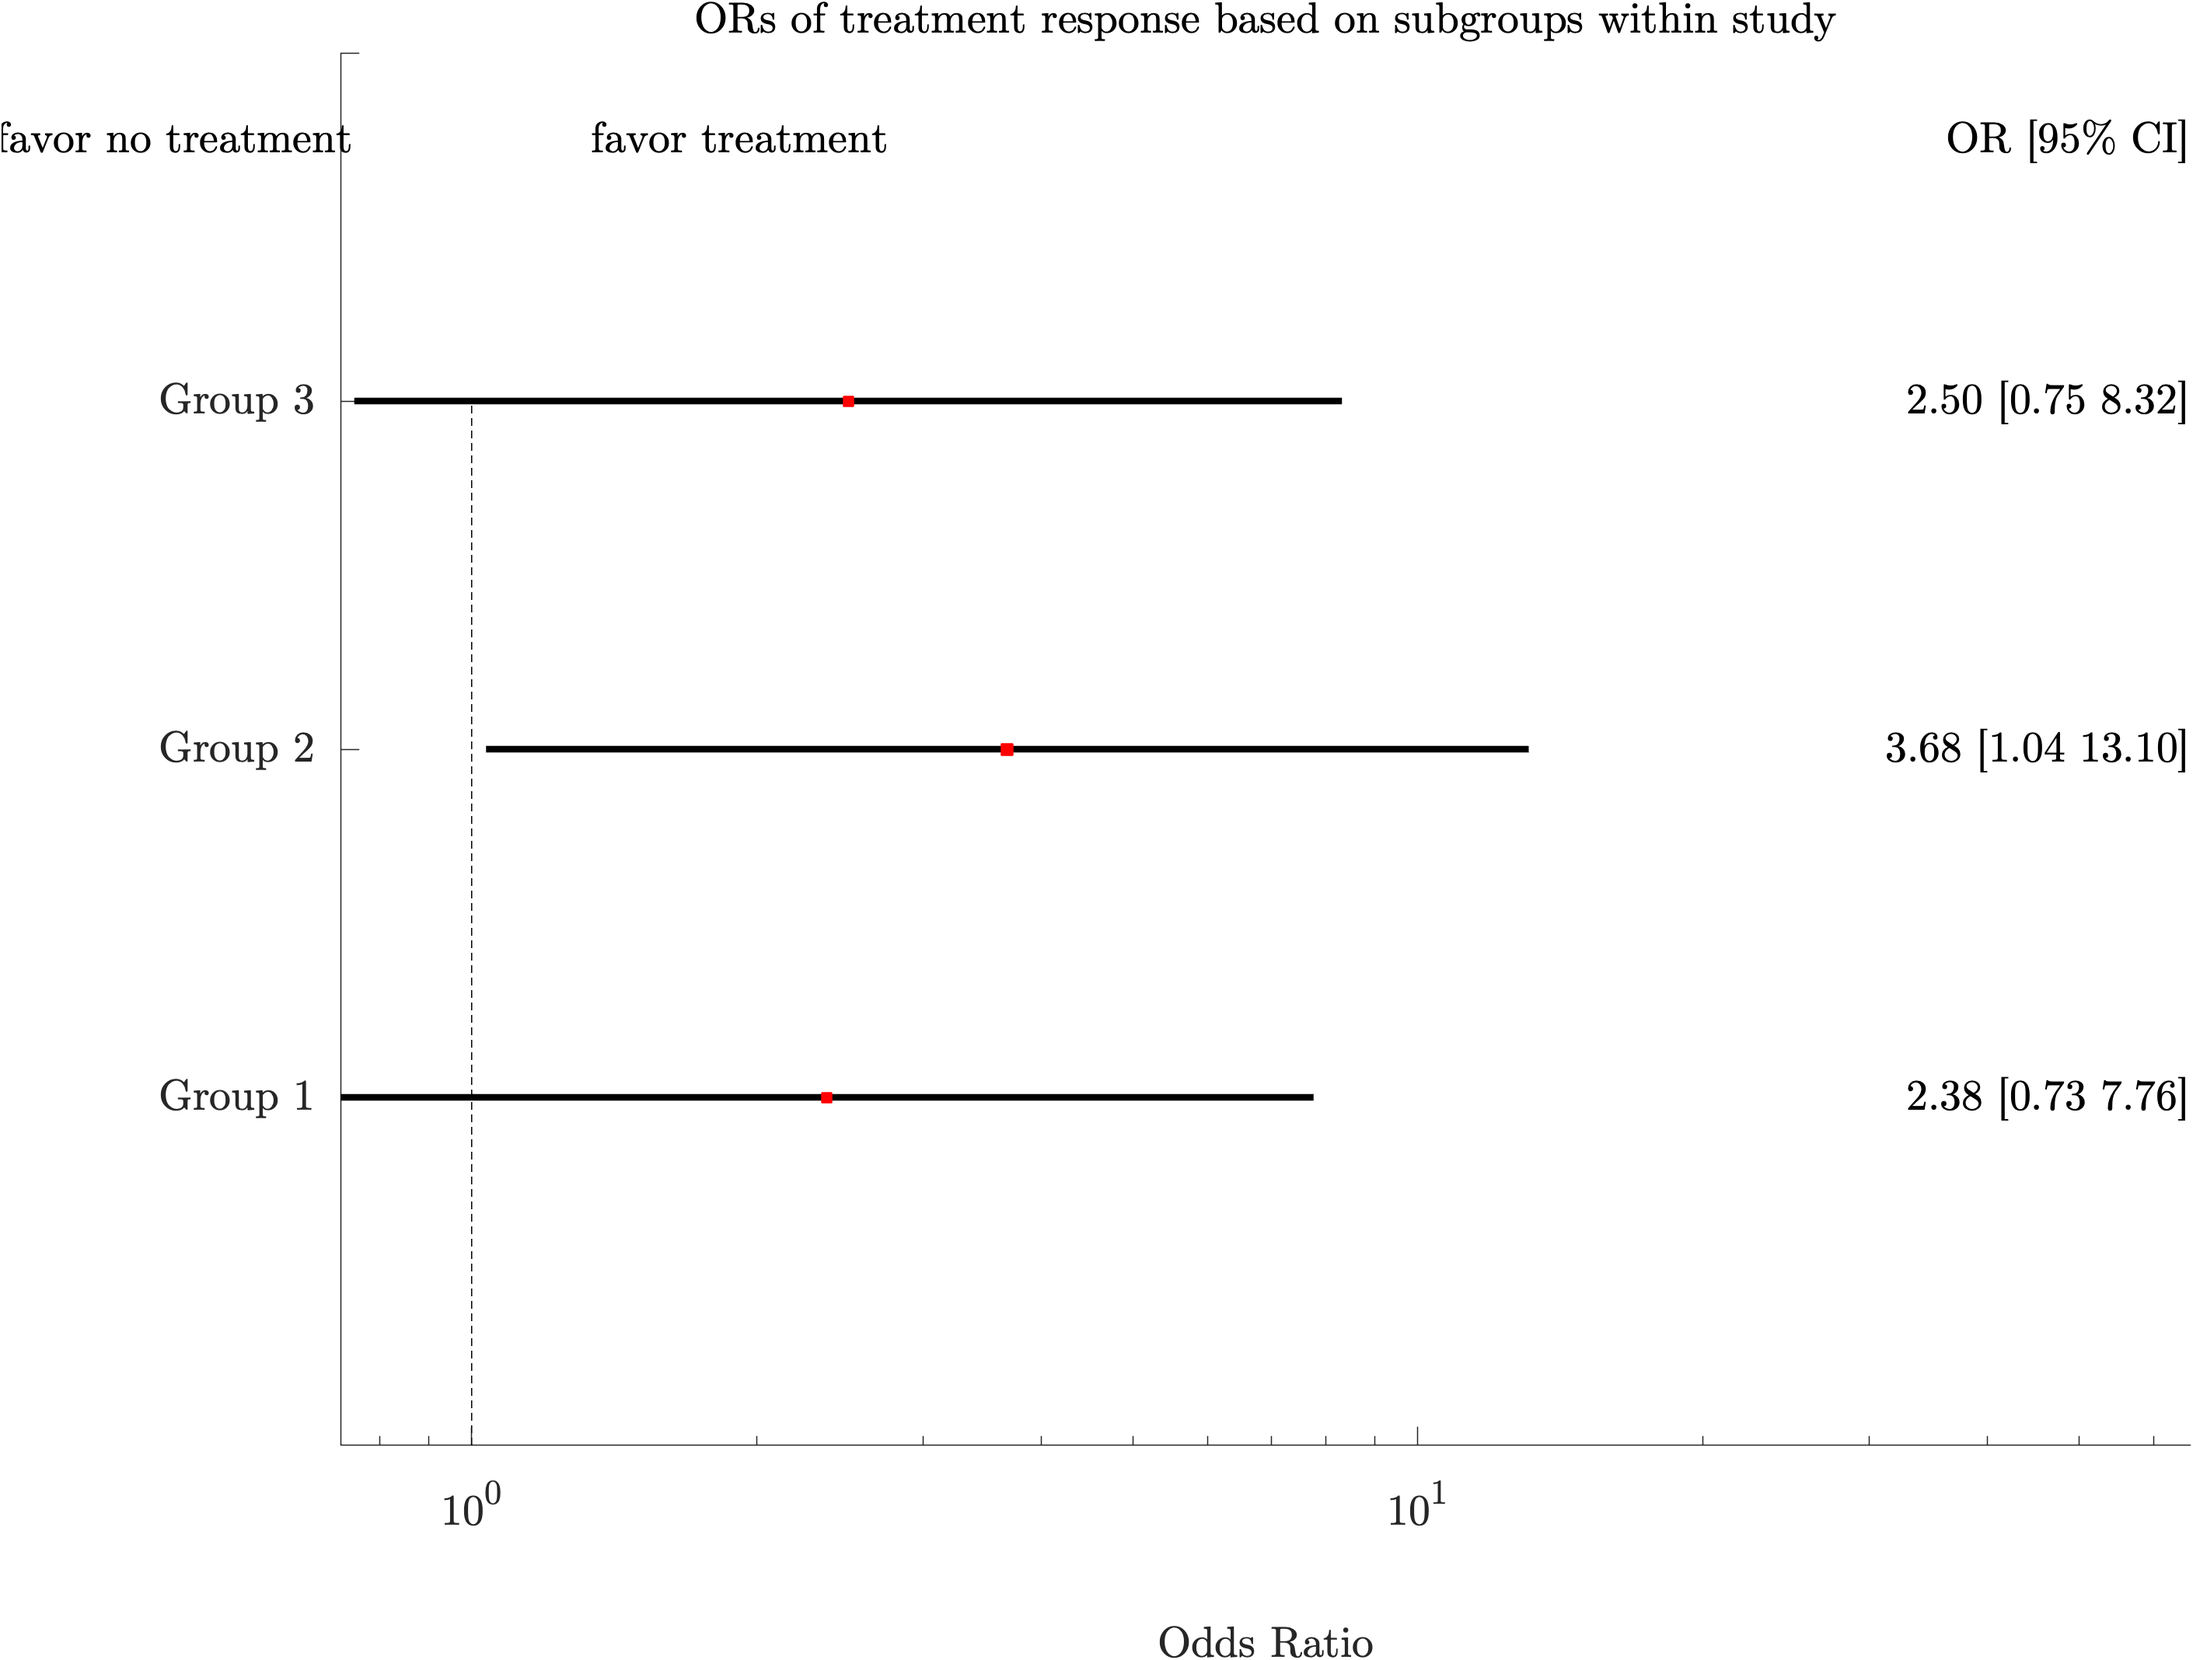
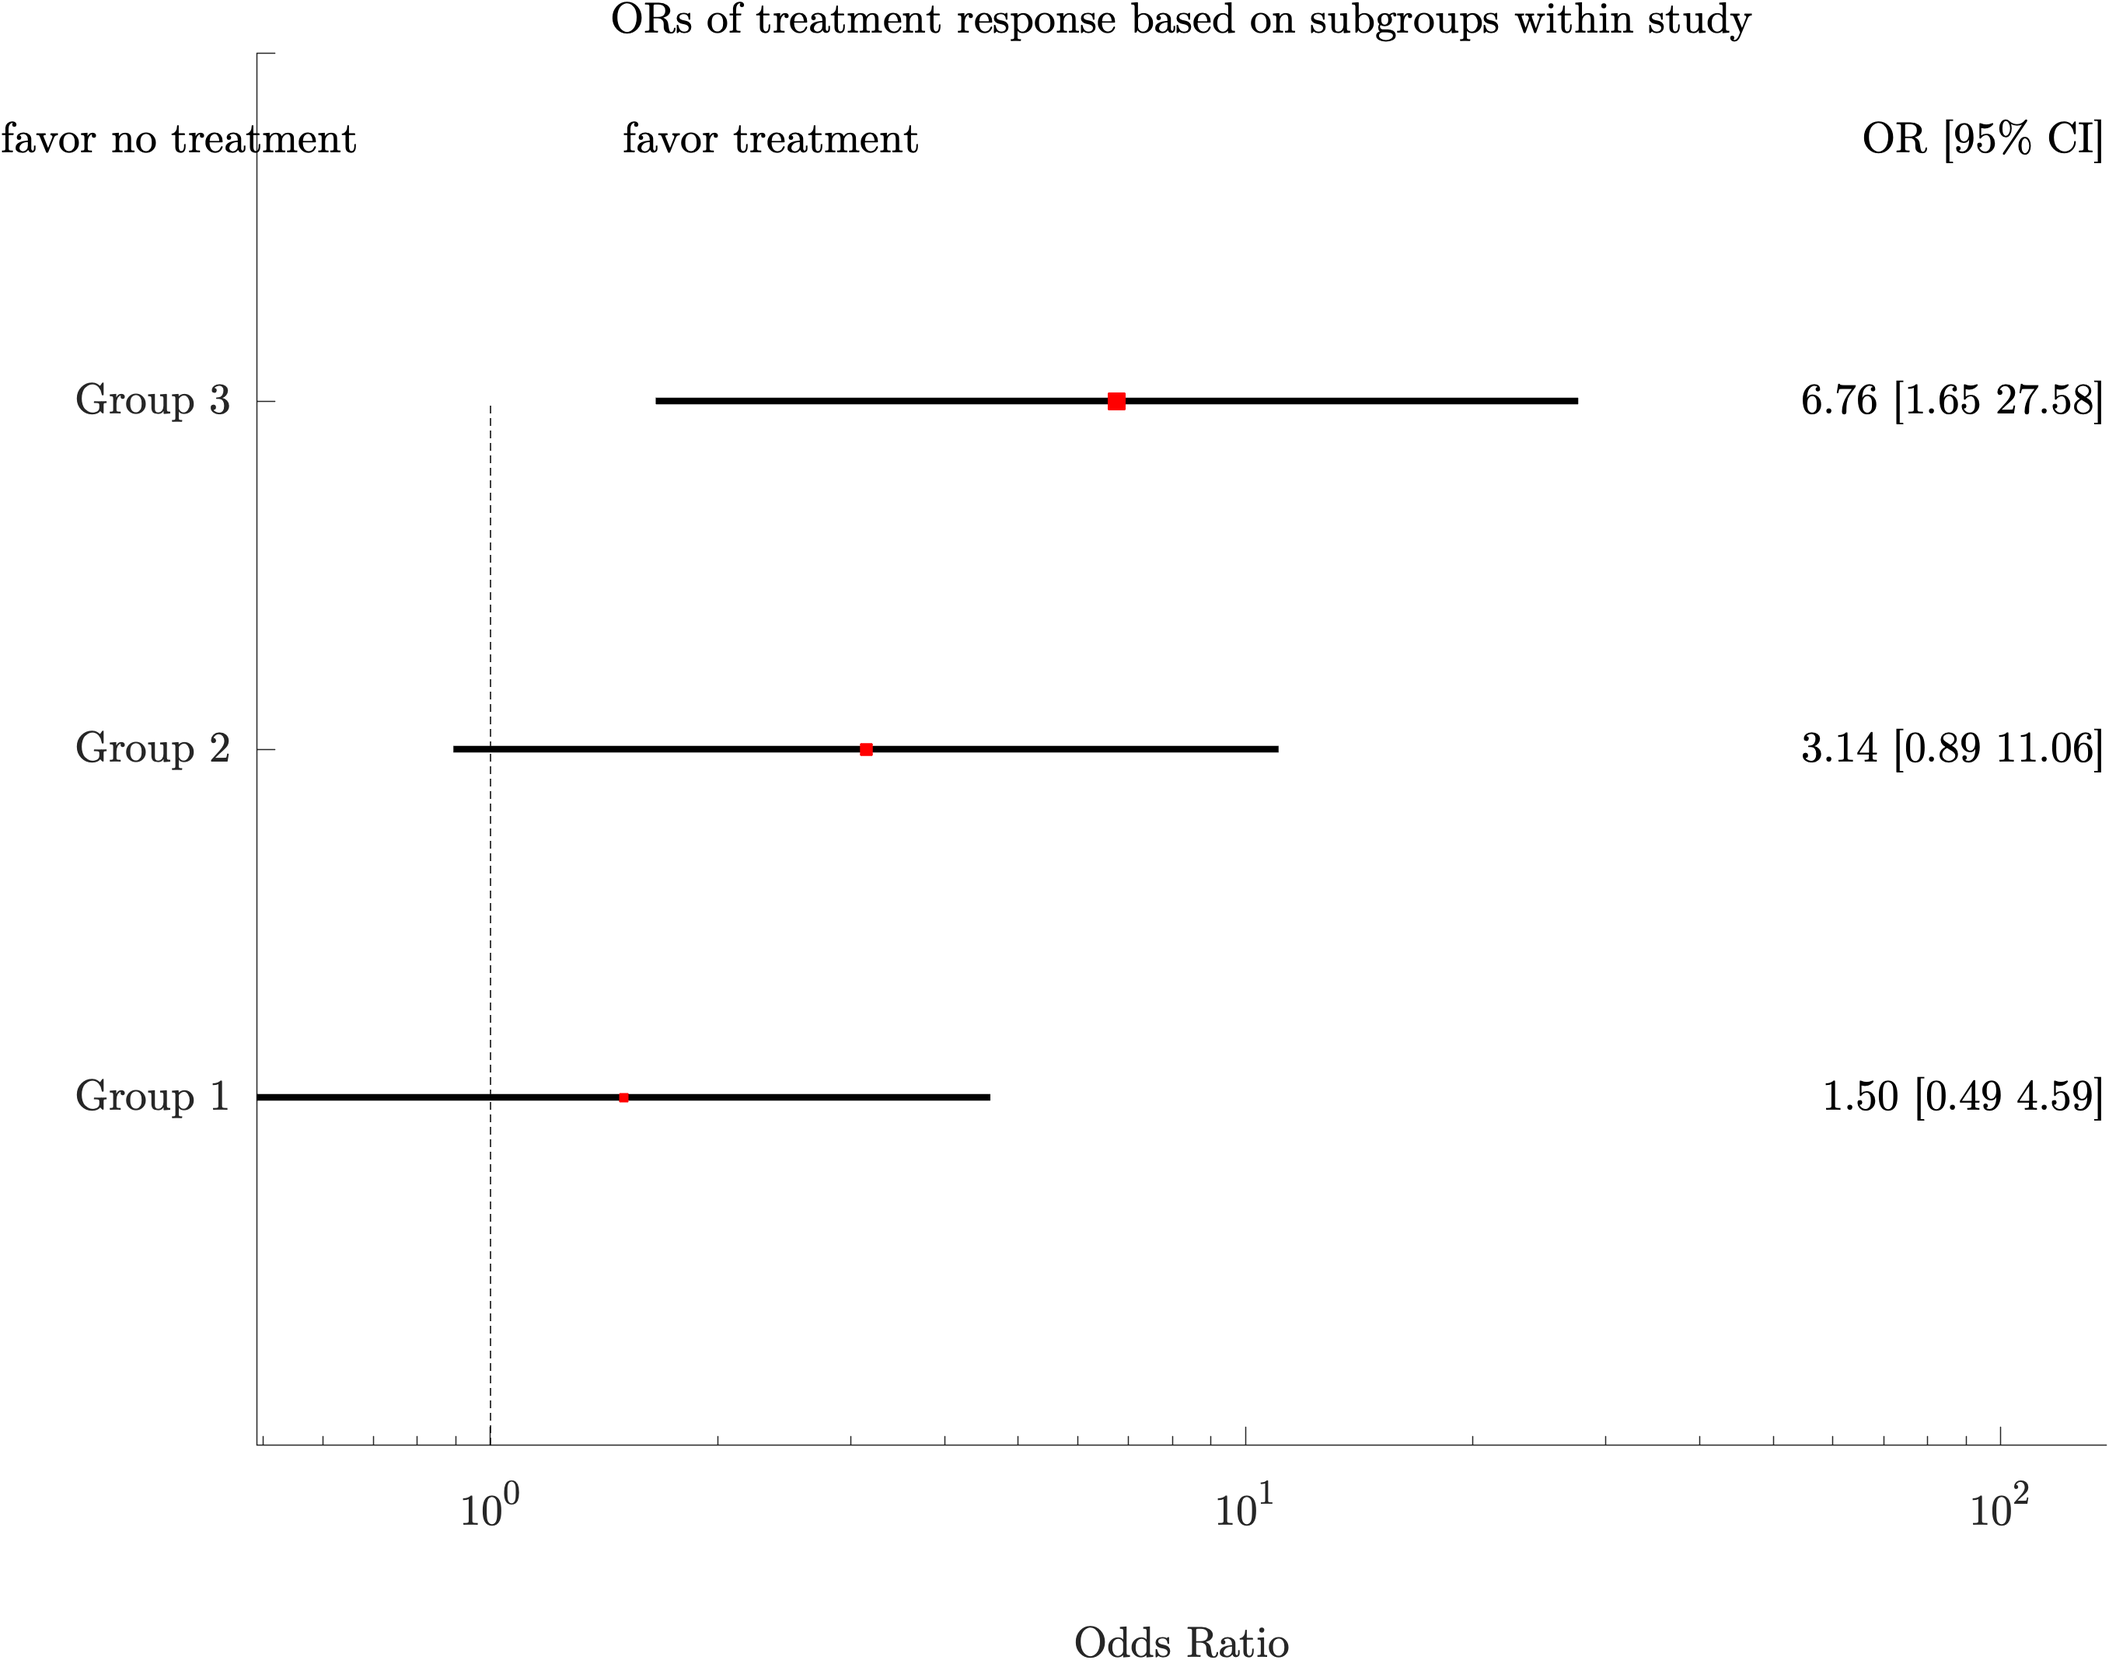
fix plots, update script to near final

diff --git a/week3/presentation/plotting_tutorial_20251017.m b/week3/presentation/plotting_tutorial_20251017.m
@@ -189,26 +189,27 @@ exportgraphics(spider,'goodSpider.png','Resolution',400)
 % clean up
 clear fig randIdx spider
 % head back to data table with everything in it
-
+%%
 % make fig - 3dscatter
 figure
 d = scatter3(data.coh1,data.coh2,data.("WMFT time"),36,data.("WMFT time"),'filled'); % add all data (xyz), size of markers,...
 % and then what variable i want the colors to be mapped to (WMFT)
-colormap autumn % add specific color map
+colormap autumn % add specific color map. autumn because it's fall y'all
 colorbar % add colorbar
-
+fig = gcf; % get current fig
 % label
 xlabel 'coh region pair 1'
 ylabel 'coh region pair 2'
 zlabel 'WMFT time (s)'
+fontname(fig,'CMU Serif') % the font that dreams are made of
+fontsize(fig,20,'pixels')
 
 % make scatter dance
-% for angle=1:360
-%     view(angle,40);
-%     pause(0.06);
-% end
+for angle=1:360
+    view(angle,40);
+    pause(0.06);
+end
 
-fig = gcf; % get current fig
 % specify angle/azimuth you want to save it as, so the jpg/png can see all three axes. 
 view(45,30) % make sure you do this for 3dscatters, otherwise you may nto be able to see all three axes well. 
 % play around w the numbers to see what you like most, (45,30) seems to work well. 
@@ -217,29 +218,44 @@ savefig('3dScatter.fig') % save as matlab fig for interacting with the 3d-ness o
 exportgraphics(fig,'3dScatter.jpg','Resolution',500) % show that you can save as other filetypes, like jpg 
 exportgraphics(fig,'3dScatter.png','Resolution',500) % or png 
 
-%% as requested, swarm chart - IN PROGRESS
-
+%% as requested, swarm chart
+% credit to: https://www.mathworks.com/help/matlab/ref/swarmchart.html
 % create new dataset that'll be easier to vizualize with swarm
+% swarm nice when you have multiple arrays
 
-% swarm chart is nice when you have multiple arrays
 figure
-r = [ones(1,300) 2 * ones(1,300) 3 * ones(1,300)];
-x1 = 27 * rand(1,300);
-x2 = 35 * rand(1,300);
-x3 = 40 * rand(1,300);
-x = [x1 x2 x3];
-swarmchart(r,x)
+r = [ones(1,300) 2 * ones(1,300) 3 * ones(1,300)]; % 1x900 array of values, 300 at 1, 300 at 2, and 300 at 3
+x1 = 27 * rand(1,300); % random values 1x300 array
+x2 = 35 * rand(1,300) + 27; % 27: add some noise/change to it
+x3 = 40 * rand(1,300) + 75; % same as above
+x = [x1 x2 x3]; % make array combining x1, x2, x3
+swarmchart(r,x,'filled');
+swarm = gcf;
+fontname(swarm,'CMU Serif')
+fontsize(swarm,20,"pixels")
+title 'swarm chart 101'
+xlabel 'xvalues, say conditions 1-3'
+ylabel 'observations made across each condition'
 
-%% imagesc - kind of like a heat map. pretty basic just to show
+exportgraphics(swarm,'swarm101.png','Resolution',600,'BackgroundColor','cyan')
 
-imagesc(dataSpider) % plot the relationship between columns and rows within dataset
-colormap autumn
-colorbar
+%% heatmap
+% pretty simple. kept using dataSpider from above, which is random subset of data, a 10x5
+% matrix. will show relationship between column value and row value.
+% i specified median, not mean, just to show you can do that. there are other options 
+% as well.
+% in this case, the heatmap is just putting the matrix in colored form.
 
-%exportgraphics(fig,'3dScatter.png','Resolution',1200)
+figure
+heatmap(dataSpider,'Title','Heatmap between rows & columns of dataSpider','ColorMethod', ...
+    'median','FontName','CMU Serif','FontSize',20)
+
+heatmap = gcf;
+exportgraphics(heatmap,'heatmap.png','Resolution',600)
 
 %% forest plot
 % fun fact, also called a "blobbogram"
+
 
 % simulate some fake data that might be in a meta analysis or somethingh
 effectSizes = rand(100,1); % generate data, effect size
@@ -271,7 +287,8 @@ confIntsUpper = confIntsUpper(sortIdx);
 forestData = table(effectSizes,confIntsLower,confIntsUpper);
 forestplot(effectSizes,confIntsLower,confIntsUpper)
 
-%% section taken from tutorial of qi an's forestplot package. all credit to that person in this section.
+%% forest plot 
+% tutorial of qi an's forestplot package. all credit to that person for forest
 % difficult one for me to generate on my own, so i used her template to demonstrate.
 % this package expects you to be working with odds ratio or relative risk, not
     %  necessarily other types of data, like effect sizes & confidence intervals, such as in meta analysis
@@ -281,31 +298,31 @@ predictor=round(rand(100, 1)); % generate predictor variable (again, 0 or 1)
 subgroup=round(rand(100, 3)); % generate which subgroup they were in (1, 2, 3)
 forestplot(response, predictor, subgroup, 'stat', 'or'); % plot
 
-fig = gcf;
+forest = gcf;
 title 'ORs of treatment response based on subgroups within study'
-fontsize(fig,20,"pixels") % change font size
-fontname(fig,"CMU Serif") % change font type (the nostalgic math one)
+fontsize(forest,20,"pixels") % change font size
+fontname(forest,"CMU Serif") % change font type (the nostalgic math one)
 % labels: auto-populates x and y based on forest command. no need to specify
 
 % save
-exportgraphics(fig,'forestTemplate.png','Resolution',400)
+exportgraphics(forest,'forestTemplate.png','Resolution',400)
 
 %% for zorder/children/uistack...
 % back to a basic scatter plot to demonstrate
 % take our coh data with wmft
 
-% goal: "stack" two scatter plots on top of each other. we'll make them diff colors so
-% easy to see. 
-figure
-scat11 = scatter(data.coh1,data.("WMFT time"),'red','filled','o');
-hold on
-scat21 = scatter(data.coh2,data.("WMFT time"),'green','filled','o');
-scat31 = scatter(data.coh3,data.("WMFT time"),'blue','filled','o');
-uistack(scat11,'up',scat31,'bottom')
+% % goal: "stack" two scatter plots on top of each other. we'll make them diff colors so
+% % easy to see. 
+% figure
+% scat11 = scatter(data.coh1,data.("WMFT time"),'red','filled','o');
+% hold on
+% scat21 = scatter(data.coh2,data.("WMFT time"),'green','filled','o');
+% scat31 = scatter(data.coh3,data.("WMFT time"),'blue','filled','o');
+% uistack(scat11,'up',scat31,'bottom')
 
 %% another way to stack: using tiledlayout
 figure
-tiledlayout(2,1) % can do this for however big of data you want essentially. 
+stacked = tiledlayout(2,1); % can do this for however big of data you want essentially. 
 nexttile
 scat12 = scatter(data.coh1,data.("WMFT time"),'red','filled','o');
 title 'brain connectivity vs WMFT time'
@@ -316,5 +333,10 @@ scat22 = scatter(data.coh2,data.("WMFT time"),'green','filled','o');
 lsline
 xlabel 'coh value'
 ylabel 'wmft time (s)'
+fontname(stacked,'CMU Serif')
+fontsize(stacked,20,'pixels')
+
+
+exportgraphics(stacked,'stackedPlot.png','Resolution',600)
 
 
